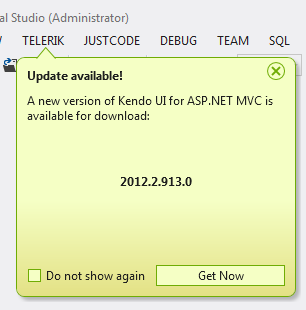
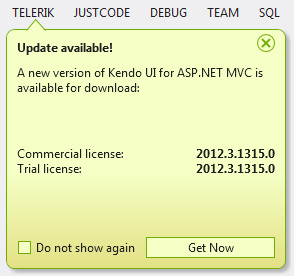
Update 'Get Latest Version' images
Update images with new that show bi-license download option.

Changed region(s): [[0.0, 0.029, 1.0, 1.0], [0.7041, 0.029, 0.8265, 0.058]]

diff --git a/getting-started/using-kendo-with/aspnet-mvc/vs-integration/latest-version-retrieval.md b/getting-started/using-kendo-with/aspnet-mvc/vs-integration/latest-version-retrieval.md
@@ -17,7 +17,7 @@ If you've disabled the notifications, you can use the Options Dialog to activate
 
 Clicking the **Get Now** button starts the Latest Version Acquirer tool, prompting for your Telerik credentials in its first page. If you do not have www.telerik.com account, you can create one through the **Register** link.
  
-![Get latest version](images/lva1.png)
+![Get latest version](images/login.png)
 
 >**Important:**
 You cannot use the tool if you only have a Trial License (attempt to download a distribution would result in an error message if you don’t have a Dev License).
@@ -28,9 +28,9 @@ You can use the **Save my password** checkbox to avoid having to enter your Tele
 
 The download starts automatically after a confirmation window.
  
-![Get latest version](images/lva2.png)
-![Get latest version](images/lva3.png)
-![Get latest version](images/lva4.png)
+![Get latest version](images/start.png)
+![Get latest version](images/download.png)
+![Get latest version](images/finish.png)
  
 Once the download succeeds, the latest version of Kendo UI for ASP.NET MVC will be available for use in the **Upgrade Wizard** and the **New Project Wizard**.
 
